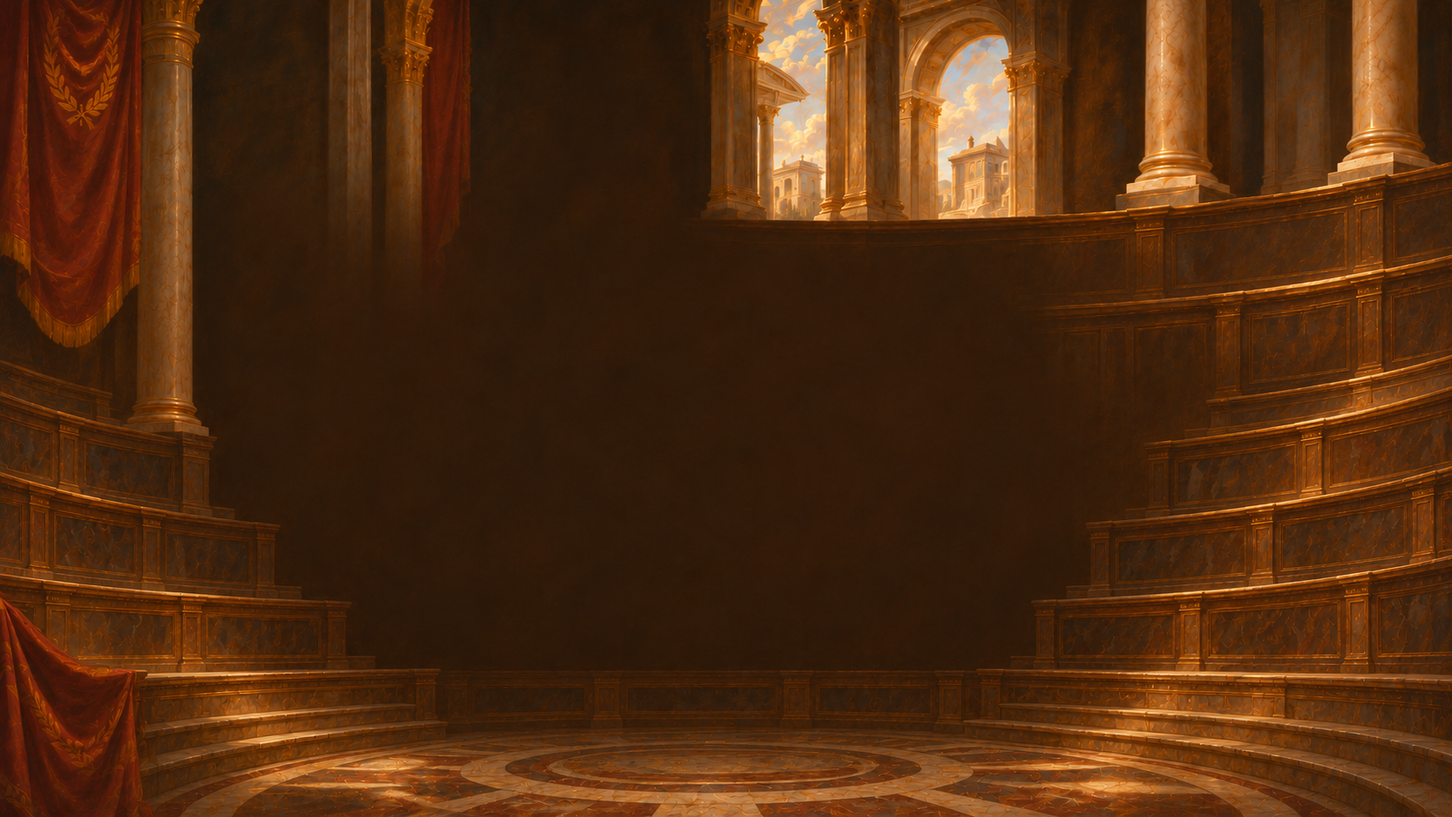
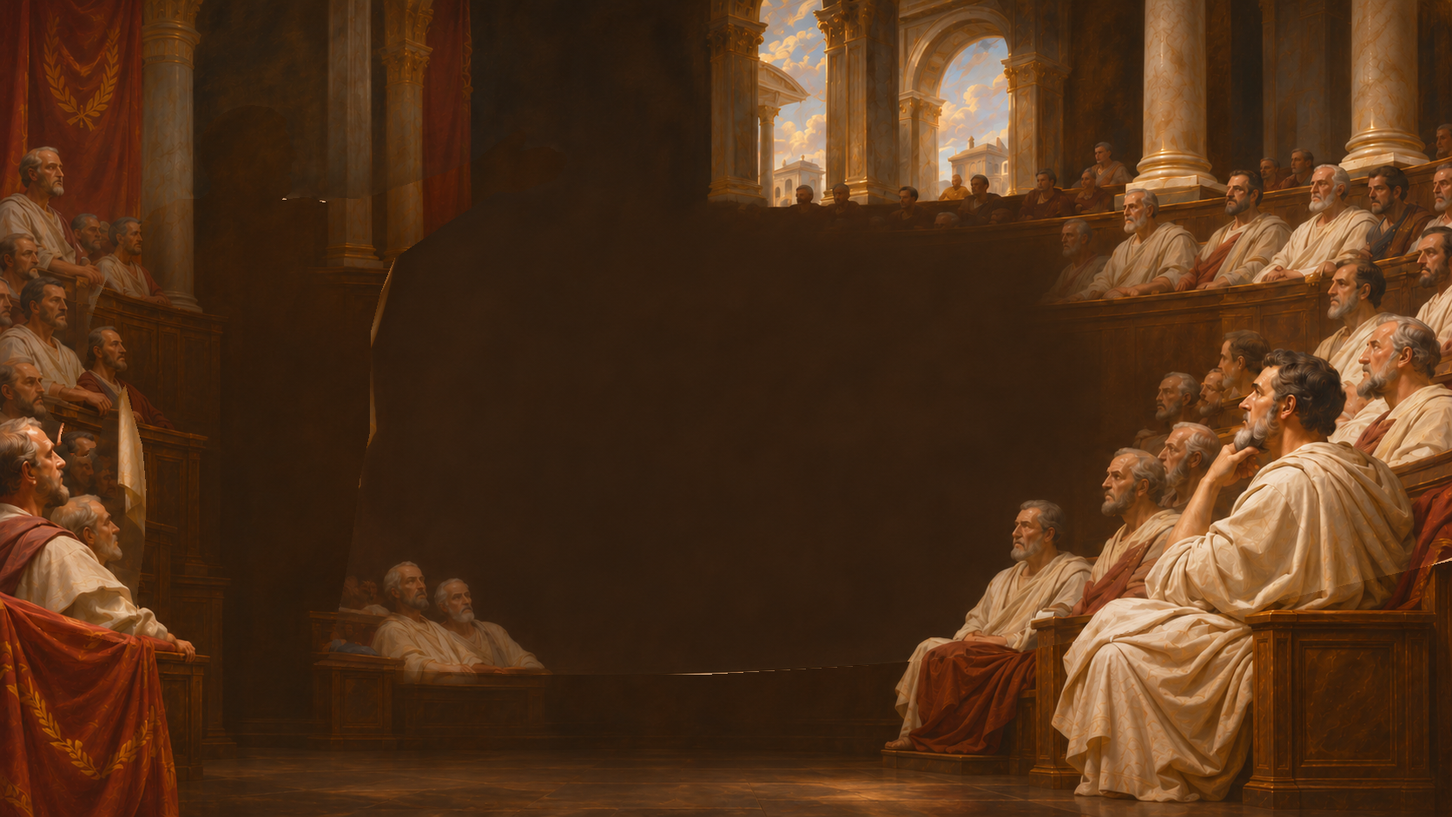
feat: 成就勋章、英雄氛围与好友席新视觉
- 七枚成就勋章与进度面板
- 首页深度视差与金色氛围层
- 好友头像/半身像与新的个人主页
- 保留 3/5/7 席、DeepSeek 开发者模式与 Worker + D1 部署

diff --git a/public/app.js b/public/app.js
@@ -1,3 +1,4 @@
+import {evaluateAchievements} from './achievements.js';
 import {packs,packList,allMembers,getPack,sizes,sizeLabels,votes} from './council.js';
 import {initHeroLive} from './hero-live.js';
 import {seatPositions,previewPositions} from './seat-layout.js';
@@ -9,7 +10,8 @@ const roman=['I','II','III','IV','V','VI','VII'];
 // Icon paths: Lucide, ISC license. Portrait SVGs are original flat geometric illustrations.
 const icons={'arrow-right':'<path d="M5 12h14M12 5l7 7-7 7"/>','arrow-down':'<path d="M12 5v14M5 12l7 7 7-7"/>',x:'<path d="m18 6-12 12M6 6l12 12"/>',users:'<path d="M16 21v-2a4 4 0 0 0-4-4H6a4 4 0 0 0-4 4v2M22 21v-2a4 4 0 0 0-3-3.87M16 3.13a4 4 0 0 1 0 7.75"/><circle cx="9" cy="7" r="4"/>',check:'<path d="m20 6-11 11-5-5"/>',lock:'<rect width="18" height="11" x="3" y="11" rx="2"/><path d="M7 11V7a5 5 0 0 1 10 0v4"/>'};
 function hydrateIcons(root=document){root.querySelectorAll('[data-icon]').forEach(el=>{el.classList.add('icon');el.setAttribute('aria-hidden','true');el.innerHTML=`<svg viewBox="0 0 24 24">${icons[el.dataset.icon]||icons['arrow-right']}</svg>`})}
-const friendSilhouette=`<svg class="friend-avatar" viewBox="0 0 180 240" aria-hidden="true"><path fill="#584530" d="M104 28C78 28 57 47 54 73c-1 10 1 18 6 24l-13 6c-4 3-2 8 3 9l10 2c-2 7 1 13 8 15l8 1-2 20c0 8 6 13 14 13h16c8 0 14-6 14-14v-19c14-6 22-18 22-32 0-7-2-14-5-20-5-30-19-50-31-50Z"/><path fill="#4d3a28" d="M104 28c20 0 36 16 39 40 2 16-2 32-11 44v-22c6-10 6-24 0-34-6-12-16-20-28-22Z"/><circle cx="128" cy="42" r="13" fill="#4d3a28"/><path fill="#6a543d" d="M14 240c4-42 28-68 60-72l16-2c32 0 56 26 60 74Z"/><path fill="#8a714f" opacity=".42" d="M70 170c10 16 16 36 18 70H56Z"/><path fill="#f4e6c8" opacity=".12" d="M78 58c6-10 18-16 29-14 5 1 10 4 13 8-9-4-19-4-28 0-6 3-11 5-14 6Z"/></svg>`;function portrait(c,index=0){const skin=['#d4b08b','#cda87b','#c69a73','#d9b48a','#c59a77','#d6af84','#d0ac85'][index%7];return `<svg viewBox="0 0 180 240" role="img" aria-label="${esc(c.name)}的低多边形肖像"><path fill="${c.color}" d="M8 240 20 177 62 151 76 140 106 140 120 155 163 181 177 240Z"/><path fill="#e8dfc8" d="m61 152 18-13 25 2 27 21-32 78H35Z"/><path fill="#cfc4aa" d="m77 154 22 14-25 72H35Z"/><path fill="#faf0d5" d="m106 147 23 16-30 77-8-44Z"/><path fill="#b9a88b" d="m45 174 29 12-22 54H25Z"/><path fill="#f0e5ca" d="m126 171 22 18-8 51h-31Z"/><path fill="#ac805e" d="m77 119-2 32 17 20 18-24-5-28Z"/><path fill="${skin}" d="m59 66 16-23 32 1 21 24-2 41-17 29-24 8-23-25-9-30Z"/><path fill="#e7c49a" d="m73 59 16-10 18 3 10 21-12 18-33-9Z"/><path fill="#b78b66" d="m114 66 14 3-2 41-17 29-15 5 8-43Z"/><path fill="#dab18b" d="m61 81 17 12-5 25-12-13Z"/><path fill="#e9c59d" d="m88 85 12-5-3 28-10 3Z"/><path fill="#af815c" d="m98 88 8 23-18 2 9-7Z"/><path fill="#826447" d="m68 84 15-3 2 4-15 3Zm35-1 13 2 3 5-17-3Z"/><path fill="#493d2c" d="m74 89 7-1-2 3h-5Zm31 0 8 1-2 3-7-1Z"/><path fill="${c.hair}" d="m54 81 1-21 13-22 23-7 27 13 15 25-7 14-10-20-10-11-30 5-12 16-1 18Z"/><path fill="#fff4d4" opacity=".25" d="m59 60 20-22 23 2-12 8-18 5-10 20Z"/>${c.style==='chinese'?`<circle cx="90" cy="18" r="13" fill="${c.hair}"/><path fill="#c7a56a" d="M87 5h6v15h-6Z"/>${c.hat==='guan'?`<path fill="#33261b" d="M60 49 69 33l21-6 21 6 9 16-8 5-10-8H78l-10 8Z"/><path fill="#c7a56a" d="M69 33h42v3H69Z"/>`:''}`:''}${c.beard?`<path fill="${c.hair}" d="m61 102 15 15 14-4 12 3 19-13-3 26-14 21-17 4-18-18Z"/><path fill="#fff3d4" opacity=".25" d="m65 113 19 10 3 31-16-19Zm32 10 17-11-10 36-10 3Z"/><path fill="#8d7154" d="m80 120 22 1-10 5Z"/>`:'<path fill="#9c6d51" d="m80 120 20-1-9 5Z"/><path fill="#e4bc92" d="m78 127 21 1-9 7Z"/>'}${c.hat==='laurel'?'<path fill="#b69b57" d="m60 58 10-13 3 10 11-17 1 12 14-12-4 13 16-4-10 10 18 3-17 4-23-5-15 8Z"/>':''}<path fill="#fff5df" opacity=".22" d="m27 188 11-9-8 61H17Zm102-12 11 8-22 56h-13Z"/></svg>`}
+// Use exactly the same SVG facets, proportions and palette as the occupied seats.
+const friendSilhouette=portrait({name:'匿名好友',color:'#85866a',hair:'#6c604a',beard:false,style:'guest'},0).replace('<svg ', '<svg class="friend-avatar" ');function portrait(c,index=0){const skin=['#d4b08b','#cda87b','#c69a73','#d9b48a','#c59a77','#d6af84','#d0ac85'][index%7];return `<svg viewBox="0 0 180 240" role="img" aria-label="${esc(c.name)}的低多边形肖像"><path fill="${c.color}" d="M8 240 20 177 62 151 76 140 106 140 120 155 163 181 177 240Z"/><path fill="#e8dfc8" d="m61 152 18-13 25 2 27 21-32 78H35Z"/><path fill="#cfc4aa" d="m77 154 22 14-25 72H35Z"/><path fill="#faf0d5" d="m106 147 23 16-30 77-8-44Z"/><path fill="#b9a88b" d="m45 174 29 12-22 54H25Z"/><path fill="#f0e5ca" d="m126 171 22 18-8 51h-31Z"/><path fill="#ac805e" d="m77 119-2 32 17 20 18-24-5-28Z"/><path fill="${skin}" d="m59 66 16-23 32 1 21 24-2 41-17 29-24 8-23-25-9-30Z"/><path fill="#e7c49a" d="m73 59 16-10 18 3 10 21-12 18-33-9Z"/><path fill="#b78b66" d="m114 66 14 3-2 41-17 29-15 5 8-43Z"/><path fill="#dab18b" d="m61 81 17 12-5 25-12-13Z"/><path fill="#e9c59d" d="m88 85 12-5-3 28-10 3Z"/><path fill="#af815c" d="m98 88 8 23-18 2 9-7Z"/><path fill="#826447" d="m68 84 15-3 2 4-15 3Zm35-1 13 2 3 5-17-3Z"/><path fill="#493d2c" d="m74 89 7-1-2 3h-5Zm31 0 8 1-2 3-7-1Z"/><path fill="${c.hair}" d="m54 81 1-21 13-22 23-7 27 13 15 25-7 14-10-20-10-11-30 5-12 16-1 18Z"/><path fill="#fff4d4" opacity=".25" d="m59 60 20-22 23 2-12 8-18 5-10 20Z"/>${c.style==='chinese'?`<circle cx="90" cy="18" r="13" fill="${c.hair}"/><path fill="#c7a56a" d="M87 5h6v15h-6Z"/>${c.hat==='guan'?`<path fill="#33261b" d="M60 49 69 33l21-6 21 6 9 16-8 5-10-8H78l-10 8Z"/><path fill="#c7a56a" d="M69 33h42v3H69Z"/>`:''}`:''}${c.beard?`<path fill="${c.hair}" d="m61 102 15 15 14-4 12 3 19-13-3 26-14 21-17 4-18-18Z"/><path fill="#fff3d4" opacity=".25" d="m65 113 19 10 3 31-16-19Zm32 10 17-11-10 36-10 3Z"/><path fill="#8d7154" d="m80 120 22 1-10 5Z"/>`:'<path fill="#9c6d51" d="m80 120 20-1-9 5Z"/><path fill="#e4bc92" d="m78 127 21 1-9 7Z"/>'}${c.hat==='laurel'?'<path fill="#b69b57" d="m60 58 10-13 3 10 11-17 1 12 14-12-4 13 16-4-10 10 18 3-17 4-23-5-15 8Z"/>':''}<path fill="#fff5df" opacity=".22" d="m27 188 11-9-8 61H17Zm102-12 11 8-22 56h-13Z"/></svg>`}
 let toastTimer;function toast(msg){$('#toast').textContent=msg;$('#toast').classList.add('show');clearTimeout(toastTimer);toastTimer=setTimeout(()=>$('#toast').classList.remove('show'),3800)}
 function showAiLoading(on){const el=$('#ai-loading');if(el)el.hidden=!on;document.body.classList.toggle('ai-busy',!!on)}
 function load(key,fallback){try{return JSON.parse(localStorage.getItem(key))??fallback}catch{return fallback}}
@@ -128,11 +130,20 @@ function devPanelMarkup(){
   const status=devActive()?'已配置 · 新议会生效':(dev.enabled?'请填写 API Key':'填写 Key 后开启');
   return `<section class="dev-panel" id="dev-panel"><header><div><p class="eyebrow">DEVELOPER MODE</p><h2>先贤引擎 · DeepSeek</h2></div><label class="dev-toggle"><input type="checkbox" id="dev-enabled" ${dev.enabled?'checked':''}><span class="dev-track"><span class="dev-thumb"></span></span><b>${dev.enabled?'已开启':'未开启'}</b></label></header><p class="dev-note">开启后，新议会的先贤质询与表态由 DeepSeek 实时生成；关闭或连接失败时自动回退本地规则。API Key 只保存在当前浏览器。</p><form id="dev-form" class="dev-form"><div id="dev-fields" ${dev.enabled?'':'hidden'}><label>DeepSeek API Key<input name="key" type="password" value="${esc(dev.key)}" placeholder="sk-..." autocomplete="off" spellcheck="false"></label><div class="dev-row"><label>模型<select name="model"><option value="deepseek-chat" ${dev.model==='deepseek-chat'?'selected':''}>deepseek-chat · 快速</option><option value="deepseek-reasoner" ${dev.model==='deepseek-reasoner'?'selected':''}>deepseek-reasoner · 深思</option></select></label><label>Base URL<input name="base" type="url" value="${esc(dev.base)}" placeholder="https://api.deepseek.com" autocomplete="off" spellcheck="false"></label></div><div class="dev-actions"><button class="button primary" type="submit">保存开发者设置</button><button class="button dev-test" type="button" data-action="dev-test">测试连接</button><span id="dev-status" class="dev-status ${devActive()?'ok':''}">${status}</span></div><p class="dev-security">Key 不会写入会场或账本；只在测试 / 开启质询 / 表决时发送给当前部署的服务，由它转发 DeepSeek。</p></div></form></section>`;
 }
+function achievementsMarkup(){
+  const medals=evaluateAchievements(ledger),unlocked=medals.filter(m=>m.unlocked).length;
+  return `<section class="achievement-gallery" id="achievement-gallery" aria-labelledby="achievement-title"><header class="achievement-heading"><div><p class="eyebrow">HONORES · THE SEVEN VIRTUES</p><h2 id="achievement-title">成就勋章</h2><p>每一次认真思考，都有迹可循。点击勋章，查看它的故事与达成条件。</p></div><div class="achievement-counter" aria-label="已点亮 ${unlocked} 枚，共 7 枚"><strong>${unlocked}</strong><span>/ 7</span> 已点亮</div></header><div class="achievement-grid">${medals.map(m=>`<button type="button" class="achievement-card ${m.unlocked?'is-unlocked':'is-locked'}" data-action="achievement" data-achievement="${m.id}" aria-label="${esc(m.name)}，${m.unlocked?'已点亮':'未解锁'}。${esc(m.condition)}当前进度 ${m.progress}/${m.target}"><img class="achievement-art" src="${m.icon}" width="160" height="160" loading="lazy" decoding="async" alt="${esc(m.symbol)}勋章"><span class="achievement-state">${m.unlocked?'✦ 已点亮':'尚未解锁'}</span><strong>${esc(m.name)}</strong><span class="achievement-condition">${esc(m.condition)}</span><progress class="achievement-meter" max="${m.target}" value="${m.progress}" aria-label="${esc(m.name)}达成进度"></progress><span class="achievement-progress">${m.progress} / ${m.target} ${m.unit}</span></button>`).join('')}</div><p class="achievement-footnote">依据当前浏览器中的议会与账单记录自动点亮；已有历史同样计入。冷静期结束或重新决定后，已达成的「交给时间」仍然保留。</p></section>`;
+}
+function showAchievement(id){
+  const m=evaluateAchievements(ledger).find(m=>m.id===id);if(!m)return;
+  $('#detail-content').innerHTML=`<article class="achievement-detail ${m.unlocked?'is-unlocked':'is-locked'}"><p class="eyebrow">${m.latin}</p><img class="achievement-detail-art" src="${m.icon}" alt="${esc(m.symbol)}勋章" width="230" height="230"><h2>${esc(m.name)}</h2><p class="achievement-detail-symbol">${esc(m.symbol)}</p><p class="achievement-detail-condition">${esc(m.condition)}</p><p class="achievement-detail-status">${m.unlocked?'✦ 勋章已点亮':'尚未解锁 · 每一步认真，都算数'}<br>当前进度：${m.progress} / ${m.target} ${m.unit}</p><progress class="achievement-meter" max="${m.target}" value="${m.progress}" aria-label="${esc(m.name)}达成进度"></progress></article>`;
+  $('#detail-dialog').showModal();
+}
 function renderProfile(){
   const kept=ledger.history.filter(h=>h.decision?.vote!=='买').reduce((n,h)=>n+(Number(h.price)||0),0);
   const recent=ledger.history.slice(0,4);
   const history=recent.length?recent.map(h=>`<div class="profile-history-row"><button type="button" data-action="record" data-id="${h.id}">${esc(h.product)}</button><span>${esc(h.decision?.vote||'—')}</span><time>${date(h.createdAt)}</time></div>`).join(''):'<p class="profile-empty">还没有议会记录。去门廊召集第一场议会，让先贤替你看清这件东西。</p>';
-  $('#profile-view').innerHTML=`<section class="profile-page"><div class="forum-topline"><a class="forum-back" href="#forum">← 返回门廊</a><span>THE CITIZEN · YOUR SEAT</span><span>${esc(date(profile.since))} 入席</span></div><div class="profile-title"><div><p class="eyebrow">PERSONAL HOME · CIVIS</p><h1>个人主页</h1></div><p>把每一次犹豫，<br>留给同一张议事桌。</p></div><div class="profile-layout"><aside class="profile-portrait"><span class="portal-art" style="width:210px;max-width:100%;margin:0 auto"><img src="/assets/hub-emblems.png" alt="" width="724" height="724"></span><h2>${esc(profile.name)}</h2><p>CITIZEN · EST. MMXXVI</p><blockquote>“${esc(profile.motto)}”</blockquote></aside><div><div class="profile-stats"><div class="profile-stat"><strong>${String(ledger.history.length).padStart(2,'0')}</strong><span>已开的议会</span></div><div class="profile-stat"><strong>¥ ${money(kept)}</strong><span>没有花出去</span></div><div class="profile-stat"><strong>¥ ${money(available())}</strong><span>当前可用闲钱</span></div></div><form id="profile-form" class="profile-form"><h2>你的席位</h2><label>称呼<input name="name" required maxlength="30" value="${esc(profile.name)}" placeholder="让先贤知道怎么称呼你"></label><label>一句话<textarea name="motto" rows="2" maxlength="120" placeholder="写下你希望自己记住的一句话">${esc(profile.motto)}</textarea></label><label class="profile-motion"><input type="checkbox" name="motion" ${prefs.motion?'checked':''}> 保留动效与音效</label><button class="button primary" type="submit">保存身份</button><span id="profile-save-note" class="profile-save-note">身份与偏好只保存在当前浏览器</span></form>${devPanelMarkup()}<div class="profile-history"><header><h2>最近的议会</h2><a href="#ledger">查看全部账单 →</a></header>${history}</div></div></div></section>`;
+  $('#profile-view').innerHTML=`<section class="profile-page"><div class="forum-topline"><a class="forum-back" href="#forum">← 返回门廊</a><span>THE CITIZEN · YOUR SEAT</span><span>${esc(date(profile.since))} 入席</span></div><div class="profile-title"><div><p class="eyebrow">PERSONAL HOME · CIVIS</p><h1>个人主页</h1></div><div class="profile-intro"><p>把每一次犹豫，<br>留给同一张议事桌。</p><button type="button" class="profile-achievement-link" data-action="show-achievements">成就勋章 →</button></div></div><div class="profile-layout"><aside class="profile-portrait"><span class="portal-art" style="width:210px;max-width:100%;margin:0 auto"><img src="/assets/hub-emblems.png" alt="" width="724" height="724"></span><h2>${esc(profile.name)}</h2><p>CITIZEN · EST. MMXXVI</p><blockquote>“${esc(profile.motto)}”</blockquote></aside><div><div class="profile-stats"><div class="profile-stat"><strong>${String(ledger.history.length).padStart(2,'0')}</strong><span>已开的议会</span></div><div class="profile-stat"><strong>¥ ${money(kept)}</strong><span>没有花出去</span></div><div class="profile-stat"><strong>¥ ${money(available())}</strong><span>当前可用闲钱</span></div></div><form id="profile-form" class="profile-form"><h2>你的席位</h2><label>称呼<input name="name" required maxlength="30" value="${esc(profile.name)}" placeholder="让先贤知道怎么称呼你"></label><label>一句话<textarea name="motto" rows="2" maxlength="120" placeholder="写下你希望自己记住的一句话">${esc(profile.motto)}</textarea></label><label class="profile-motion"><input type="checkbox" name="motion" ${prefs.motion?'checked':''}> 保留动效与音效</label><button class="button primary" type="submit">保存身份</button><span id="profile-save-note" class="profile-save-note">身份与偏好只保存在当前浏览器</span></form>${devPanelMarkup()}<div class="profile-history"><header><h2>最近的议会</h2><a href="#ledger">查看全部账单 →</a></header>${history}</div></div></div>${achievementsMarkup()}</section>`;
 }
 function showRecord(id){
 const h=ledger.history.find(h=>h.id===id);if(!h)return;const pack=packOf(h.packId),size=h.councilSize||h.seats?.length||7;const seatStrip=(h.seats||[]).map(sid=>{const c=pack.members.find(m=>m.id===sid);const ci=c?pack.members.indexOf(c):0;return `<span class="record-seat">${c?portrait(c,ci):friendSilhouette}<small>${c?esc(c.name):'好友'}</small></span>`}).join('');$('#detail-content').innerHTML=`<p class="eyebrow">THE ARCHIVE</p><div class="record-heading"><h2>${esc(h.product)}</h2><p>${date(h.createdAt)} · ¥ ${money(h.price)} · 你的决定：${h.decision.vote}</p></div><p class="record-pack">${esc(h.packName||pack.name)} · ${size} 席</p><div class="record-council pack-${pack.theme}">${seatStrip}</div><p class="user-reason">${esc(h.reason)}</p>${ballotMarkup(h)}<h3 style="margin-top:30px">完整质询记录</h3>${transcriptMarkup(h.answers)}`;$('#detail-dialog').showModal()}
@@ -149,6 +160,8 @@ if(event.target.closest('[data-slide-prev]')){event.preventDefault();goSlide(hom
 if(event.target.closest('[data-slide-next]')){event.preventDefault();goSlide(homePager.slide+1);return;}
 const sage=event.target.closest('[data-sage]');if(sage){event.preventDefault();showSage(sage.dataset.sage);return;}
 const el=event.target.closest('[data-action]');if(!el)return;const action=el.dataset.action;if(el.disabled)return;try{
+ if(action==='show-achievements'){$('#achievement-gallery')?.scrollIntoView({behavior:motionOff()?'instant':'smooth',block:'start'});return;}
+ if(action==='achievement'){showAchievement(el.dataset.achievement);return;}
  if(action==='toggle-motion'){prefs.motion=!prefs.motion;save('senate-prefs-v1',prefs);applyPrefs();if(!prefs.motion){finishTyping();clearBallotReveal();if(room?.state==='VOTE_FINISHED'&&location.hash==='#chamber')renderChamber();}toast(prefs.motion?'动画已开启':'动画已关闭');return;}
  if(action==='new'||action==='sample'){openProposal(action==='sample');return;}if(action==='enter-council'){openProposal();return;}if(action==='fill-sample'){fillSample();return;}if(action==='close'){el.closest('dialog').close();return;}if(action==='transcript'){showTranscript();return;}if(action==='record'){showRecord(el.dataset.id);return;}if(action==='ledger-tab'){tab=el.dataset.tab;renderLedger();return;}if(action==='friend-refresh'){await route();return;}
  if(action==='dev-test'){const form=$('#dev-form'),status=$('#dev-status');if(!form||!status)return;const key=form.querySelector('[name=key]').value.trim(),model=form.querySelector('[name=model]').value,base=form.querySelector('[name=base]').value.trim();if(!key){status.className='dev-status bad';status.textContent='请先填写 API Key';return}el.disabled=true;status.className='dev-status';status.textContent='正在连接 DeepSeek…';try{const result=await api('/api/dev/test',{method:'POST',body:{key,model,base}});status.className='dev-status ok';status.textContent=`连接成功${result.models?.length?' · '+result.models.slice(0,2).join(' / '):''}`}catch(error){status.className='dev-status bad';status.textContent=`连接失败：${error.message}`}finally{el.disabled=false}return;}
@@ -175,7 +188,7 @@ document.addEventListener('submit',async e=>{const form=e.target;if(!['proposal-
  if(form.id==='friend-form'){await api(`/api/rooms/${form.dataset.id}/friend`,{method:'POST',body:b,friendToken:form.dataset.token});await renderFriend(form.dataset.id,form.dataset.token);toast('你的观点已封存');}
  if(form.id==='friend-question-form'){await api(`/api/rooms/${form.dataset.id}/ask`,{method:'POST',body:{name:b.name,question:b.question},friendToken:form.dataset.token});await renderFriend(form.dataset.id,form.dataset.token);toast('你的质询已提交');}
  }catch(err){if(form.id==='proposal-form')$('#proposal-error').textContent=err.message;else toast(err.message)}finally{button.disabled=false;}});
-window.addEventListener('hashchange',route);window.addEventListener('pagehide',()=>clearInterval(poll));window.addEventListener('storage',e=>{if(e.key==='senate-ledger-v1'){ledger=load('senate-ledger-v1',ledger);if(location.hash==='#ledger')renderLedger()}});
+window.addEventListener('hashchange',route);window.addEventListener('pagehide',()=>clearInterval(poll));window.addEventListener('storage',e=>{if(e.key==='senate-ledger-v1'){ledger=load('senate-ledger-v1',ledger);if(location.hash==='#ledger')renderLedger();if(location.hash==='#profile')renderProfile()}});
 function wheelPager(event){if(!homeVisible()||dialogOpen()||event.ctrlKey)return;event.preventDefault();if(homePager.locked)return;const ax=Math.abs(event.deltaX),ay=Math.abs(event.deltaY);if(ax>ay*1.1&&homePager.page===1){if(ax>12)slideBy(event.deltaX>0?1:-1);return}homePager.wheelAcc+=event.deltaY;clearTimeout(homePager.wheelTimer);homePager.wheelTimer=setTimeout(()=>{homePager.wheelAcc=0},170);if(Math.abs(homePager.wheelAcc)>=24){const dir=homePager.wheelAcc>0?1:-1;homePager.wheelAcc=0;goPage(homePager.page+dir)}}
 document.addEventListener('wheel',wheelPager,{passive:false});
 let pagerPointer=null;

diff --git a/public/achievements.css b/public/achievements.css
@@ -1,0 +1,45 @@
+/* Anonymous guest portrait: keep the illustration aligned with the bust base. */
+.seat .bust .friend-avatar{display:block;width:100%;height:100%;object-fit:contain;object-position:center bottom;filter:drop-shadow(0 3px 3px #442c1822)}
+.record-seat .friend-avatar{display:block;width:40px;height:52px;border:1px solid #c3ae86;border-radius:50% 50% 0 0/34% 34% 0 0;background:#e8dcc4;object-fit:contain;object-position:center bottom}
+.pool-chip.friend .friend-avatar{display:block;width:44px;height:56px;max-width:none;object-fit:contain;object-position:center bottom}
+.friend-portrait-preview{display:block;width:100%;height:100%;object-fit:contain;object-position:center bottom}
+/* Medals live on their own shelf in the personal home. */
+.profile-achievement-link{display:inline-flex;align-items:center;gap:9px;padding:9px 0;color:#d4b377;border-bottom:1px solid #a88a5455;font:12px SimSun,serif;letter-spacing:2px}
+.profile-achievement-link:hover{color:#f1d6a4;border-color:#d4b377}
+.profile-title .profile-intro{display:flex;align-items:center;gap:28px}
+.achievement-gallery{margin-top:48px;padding:35px 0 10px;border-top:1px solid #b4935655;scroll-margin-top:30px}
+.achievement-heading{display:flex;align-items:flex-end;justify-content:space-between;gap:22px;margin-bottom:18px}
+.achievement-heading .eyebrow{font-size:9px;letter-spacing:4px;color:#a88a55}
+.achievement-heading h2{font:29px/1.5 SimSun,serif;letter-spacing:5px;margin-top:9px;color:#ecdfc0}
+.achievement-heading p{font:11px/1.9 SimSun,serif;color:#a99472;letter-spacing:1px;margin-top:9px}
+.achievement-counter{flex:none;text-align:right;font:11px SimSun,serif;letter-spacing:2px;color:#aa926b;padding-bottom:6px}
+.achievement-counter strong{font:34px Georgia,serif;color:#d7b775;letter-spacing:0}
+.achievement-counter span{font:20px Georgia,serif;color:#8d7754;margin:0 6px}
+.achievement-grid{display:grid;grid-template-columns:repeat(4,minmax(0,1fr));gap:16px 22px}
+.achievement-card{position:relative;display:flex;flex-direction:column;align-items:center;text-align:center;min-width:0;padding:19px 12px 20px;border-bottom:1px solid #b493562e;background:radial-gradient(ellipse at 50% 28%,#c4933320,transparent 58%);transition:background .3s,border-color .3s;cursor:pointer}
+.achievement-card:hover,.achievement-card:focus-visible{background:radial-gradient(ellipse at 50% 28%,#d2a54b30,transparent 65%);border-color:#c1a36a77}
+.achievement-art{width:150px;max-width:100%;aspect-ratio:1;object-fit:contain;display:block;filter:drop-shadow(0 6px 13px #0005);transition:filter .4s,transform .4s;pointer-events:none}
+.achievement-card:hover .achievement-art,.achievement-card:focus-visible .achievement-art{transform:translateY(-5px) rotate(-2deg)}
+.achievement-card.is-locked .achievement-art{filter:grayscale(.94) saturate(.2) brightness(.75) drop-shadow(0 6px 13px #0004);opacity:.65}
+.achievement-card.is-locked:hover .achievement-art,.achievement-card.is-locked:focus-visible .achievement-art{filter:grayscale(.65) saturate(.4) brightness(.9);opacity:.85}
+.achievement-state{display:block;font:9px/1.6 SimSun,serif;letter-spacing:2px;color:#bda166;margin-top:9px;min-height:15px}
+.is-locked .achievement-state{color:#94866c}
+.achievement-card strong{font:18px/1.6 SimSun,serif;letter-spacing:2px;color:#e9d9b5;margin-top:5px}
+.achievement-condition{font:10px/1.9 SimSun,serif;color:#ac9979;display:block;min-height:57px;margin-top:9px;max-width:210px;overflow-wrap:anywhere;letter-spacing:.4px}
+.achievement-meter{display:block;width:78%;height:3px;appearance:none;border:0;background:#77613a30;color:#b99c60;border-radius:0;margin-top:14px;overflow:hidden}
+.achievement-meter::-webkit-progress-bar{background:#77613a30}
+.achievement-meter::-webkit-progress-value{background:linear-gradient(90deg,#927340,#d3b474)}
+.achievement-meter::-moz-progress-bar{background:#c0a263}
+.achievement-progress{display:block;font:9px/1.6 Georgia,SimSun,serif;color:#968361;margin-top:8px;letter-spacing:1px}
+.achievement-footnote{font:10px/1.9 SimSun,serif;color:#8e7d60;margin-top:24px;letter-spacing:1px}
+.achievement-detail{text-align:center;padding:4px 5px 15px}
+.achievement-detail-art{width:230px;max-width:75%;aspect-ratio:1;object-fit:contain;margin:15px auto;filter:drop-shadow(0 8px 15px #79541a33)}
+.achievement-detail.is-locked .achievement-detail-art{filter:grayscale(.9) brightness(.85);opacity:.75}
+.achievement-detail .eyebrow{font-size:10px;letter-spacing:3px}
+.achievement-detail h2{font-size:30px;letter-spacing:4px}
+.achievement-detail-symbol{font:11px/1.8 SimSun,serif;color:#927750;margin:8px 0 20px;letter-spacing:2px}
+.achievement-detail-condition{font:14px/2 SimSun,serif;color:#6d563a;max-width:460px;margin:auto}
+.achievement-detail-status{font:12px/1.9 SimSun,serif;color:#8c6d3e;border-top:1px solid #bca16b55;padding-top:18px;margin-top:22px;letter-spacing:1px}
+.achievement-detail .achievement-meter{margin:16px auto 0;max-width:300px;height:4px}
+@media(max-width:1000px){.achievement-grid{gap:14px}.achievement-art{width:130px}.achievement-condition{min-height:76px}.profile-title .profile-intro{gap:16px}}
+@media(max-width:700px){.achievement-gallery{margin-top:32px;padding-top:26px}.achievement-heading{align-items:start;gap:12px}.achievement-heading h2{font-size:25px;letter-spacing:3px}.achievement-heading p{font-size:10px;letter-spacing:.4px;max-width:235px}.achievement-counter{font-size:9px;white-space:nowrap;padding-top:22px;letter-spacing:0}.achievement-counter strong{font-size:28px}.achievement-counter span{font-size:16px;margin:0 3px}.achievement-grid{grid-template-columns:repeat(2,minmax(0,1fr));gap:10px 12px}.achievement-card{padding:15px 7px 18px}.achievement-art{width:125px}.achievement-card strong{font-size:16px;letter-spacing:1px}.achievement-condition{font-size:10px;min-height:76px;margin-top:7px}.achievement-state{font-size:8px;letter-spacing:1px}.achievement-progress{font-size:8px;letter-spacing:.2px}.profile-title .profile-intro>p{display:none}.profile-achievement-link{font-size:11px;letter-spacing:1px}.achievement-detail-art{width:190px}.achievement-detail h2{font-size:26px}.achievement-detail-condition{font-size:13px}.achievement-footnote{font-size:9px}}

diff --git a/public/hero-live.js b/public/hero-live.js
@@ -1,20 +1,55 @@
 const clamp = (n, min, max) => Math.min(max, Math.max(min, n));
 
-// The plates share a source canvas and crop; only their depth transforms differ.
+// Fixed, deterministic motes animate on the compositor, without an idle RAF.
+function addAtmosphere(hero) {
+  if (hero.querySelector('.hero-atmosphere')) return;
+  const atmosphere = document.createElement('div');
+  atmosphere.className = 'hero-atmosphere';
+  atmosphere.setAttribute('aria-hidden', 'true');
+  const glow = document.createElement('div');
+  glow.className = 'hero-light-breath';
+  atmosphere.appendChild(glow);
+  for (let index = 0; index < 3; index++) {
+    const wave = document.createElement('span');
+    wave.className = 'hero-breath-wave';
+    wave.style.setProperty('--wave-delay', `${-index * 5}s`);
+    atmosphere.appendChild(wave);
+  }
+  for (let index = 0; index < 26; index++) {
+    const mote = document.createElement('span');
+    const unit = salt => ((index * 137 + salt * 79) % 997) / 997;
+    mote.className = 'hero-light-mote';
+    const properties = {
+      '--px': `${5 + unit(1) * 90}%`, '--py': `${17 + unit(9) * 77}%`,
+      '--mote-size': `${index % 6 === 0 ? 3 : 1.5 + unit(4)}px`,
+      '--drift': `${-22 + unit(2) * 44}px`, '--lift': `${55 + unit(3) * 80}px`,
+      '--life': `${13 + unit(5) * 13}s`, '--delay': `${-unit(7) * 26}s`,
+      '--glimmer': `${.22 + unit(6) * .38}`
+    };
+    Object.entries(properties).forEach(([name,value]) => mote.style.setProperty(name,value));
+    atmosphere.appendChild(mote);
+  }
+  hero.appendChild(atmosphere);
+}
+
+// The background keeps every seated person intact. Only the orator/desk move.
+// All plates use the same source canvas, crop and scale, including at rest.
 export function initHeroLive() {
   const hero = document.querySelector('.hero');
-  if (!hero) return;
+  if (!hero || hero.dataset.heroLive) return;
+  hero.dataset.heroLive = 'ready';
+  addAtmosphere(hero);
   const layers = [...hero.querySelectorAll('.hero-layer')];
   const home = document.getElementById('home-view');
   const pager = document.getElementById('home-pager');
   const reduced = matchMedia('(prefers-reduced-motion: reduce)');
   const finePointer = matchMedia('(hover: hover) and (pointer: fine)');
   let x = 0, y = 0, targetX = 0, targetY = 0, frame = 0, last = 0;
-  const active = () => !document.hidden && !home.hidden &&
-    pager.dataset.page === '0' && !reduced.matches && finePointer.matches &&
+  const visibleMotion = () => !document.hidden && !home.hidden &&
+    pager.dataset.page === '0' && !reduced.matches &&
     !document.documentElement.classList.contains('no-motion') &&
     !document.querySelector('dialog[open]');
-
+  const active = () => visibleMotion() && finePointer.matches;
   function paint() {
     hero.style.setProperty('--mx', x.toFixed(4));
     hero.style.setProperty('--my', y.toFixed(4));
@@ -24,6 +59,10 @@ export function initHeroLive() {
     frame = 0; last = 0;
     x = y = targetX = targetY = 0;
     paint();
+  }
+  function syncActivity() {
+    hero.classList.toggle('ambient-running', visibleMotion());
+    if (!active()) reset();
   }
   function tick(now) {
     frame = 0;
@@ -47,16 +86,17 @@ export function initHeroLive() {
     wake();
   }, {passive: true});
   hero.addEventListener('pointerleave', () => { targetX = targetY = 0; wake(); });
-  document.addEventListener('visibilitychange', reset);
-  reduced.addEventListener('change', reset);
-  finePointer.addEventListener('change', reset);
-  const observer = new MutationObserver(() => { if (!active()) reset(); });
+  document.addEventListener('visibilitychange', syncActivity);
+  reduced.addEventListener('change', syncActivity);
+  finePointer.addEventListener('change', syncActivity);
+  const observer = new MutationObserver(syncActivity);
   observer.observe(document.documentElement, {attributes: true, attributeFilter: ['class']});
   observer.observe(home, {attributes: true, attributeFilter: ['hidden']});
   observer.observe(pager, {attributes: true, attributeFilter: ['data-page']});
   document.querySelectorAll('dialog').forEach(dialog =>
     observer.observe(dialog, {attributes: true, attributeFilter: ['open']}));
-  // Reveal the assembled scene only after all three plates load successfully.
+  syncActivity();
+  // Keep the complete original painting visible if any plate cannot load.
   Promise.all(layers.map(img => img.decode())).then(() => {
     if (layers.length === 3) hero.classList.add('layers-ready');
   }).catch(() => hero.classList.remove('layers-ready'));

diff --git a/public/achievements.js b/public/achievements.js
@@ -1,0 +1,43 @@
+// Achievements are derived from saved records, including existing history.
+// Resolving a cooling-off decision must not erase an earned milestone.
+export const achievementDefinitions = [
+  {id:'first-council',name:'初入元老院',latin:'PRIMA ASSEMBLEA',symbol:'神殿',condition:'完成第一场议会，并作出最终决定。',target:1,unit:'场议会',metric:'councils'},
+  {id:'inquiry',name:'问道者',latin:'ARS QVAERENDI',symbol:'羽笔与卷宗',condition:'在已完成的议会中，累计认真回答 7 个质询。',target:7,unit:'个回答',metric:'answers'},
+  {id:'fellowship',name:'好友同席',latin:'VOX AMICORVM',symbol:'握手与银盾',condition:'与至少一位好友共同完成一场议会。',target:1,unit:'场好友议会',metric:'friendCouncils'},
+  {id:'patience',name:'交给时间',latin:'TEMPVS DOCET',symbol:'沙漏',condition:'在一场议会中选择「暂缓」，开启一次冷静期。',target:1,unit:'次冷静决定',metric:'pauses'},
+  {id:'restraint',name:'有所不为',latin:'ARS TEMPERANTIAE',symbol:'钱袋与橄榄枝',condition:'在听取议会意见后，至少一次决定「不买」。',target:1,unit:'次不买决定',metric:'declines'},
+  {id:'bookkeeper',name:'账簿执笔人',latin:'CVRA RATIONVM',symbol:'账簿与金笔',condition:'累计留下 3 笔收支记录，预算调整与议会购买也计入。',target:3,unit:'笔收支',metric:'entries'},
+  {id:'sevenfold',name:'七度深思',latin:'SEPTEM CONSILIA',symbol:'桂冠与明灯',condition:'累计完成 7 场议会，每场都作出自己的决定。',target:7,unit:'场议会',metric:'councils'}
+];
+
+const votes = new Set(['买','暂缓','不买']);
+function unique(items) {
+  const ids = new Set();
+  return items.filter(item => {
+    if (!item || typeof item !== 'object') return false;
+    if (!item.id) return true;
+    if (ids.has(item.id)) return false;
+    ids.add(item.id);return true;
+  });
+}
+
+export function evaluateAchievements(ledger = {}) {
+  const history = unique(Array.isArray(ledger?.history) ? ledger.history : [])
+    .filter(record => votes.has(record.decision?.vote));
+  const entries = unique(Array.isArray(ledger?.entries) ? ledger.entries : [])
+    .filter(entry => ['income','expense'].includes(entry.kind) && Number(entry.amount) > 0);
+  const metrics = {
+    councils:history.length,
+    answers:history.reduce((sum,record) => sum + (Array.isArray(record.answers)
+      ? record.answers.filter(answer => typeof answer?.answer === 'string' && answer.answer.trim()).length : 0),0),
+    friendCouncils:history.filter(record => record.seats?.includes('friend') || record.ballots?.some(ballot => ballot.source === 'friend')).length,
+    pauses:history.filter(record => record.decision.vote === '暂缓' || record.originalDecision?.vote === '暂缓').length,
+    declines:history.filter(record => record.decision.vote === '不买').length,
+    entries:entries.length
+  };
+  return achievementDefinitions.map(definition => {
+    const total = metrics[definition.metric];
+    return {...definition,icon:`/assets/achievements/${definition.id}.png`,total,
+      progress:Math.min(total,definition.target),unlocked:total >= definition.target};
+  });
+}

diff --git a/public/index.html b/public/index.html
@@ -1,5 +1,5 @@
 <!doctype html>
-<html lang="zh-CN"><head><meta charset="UTF-8"><meta name="viewport" content="width=device-width, initial-scale=1"><meta name="theme-color" content="#292016"><meta name="description" content="The Senate 元老院消费决策议会。七位先贤的轮番质询，替你分辨想要与需要。"><title>The Senate · 元老院消费决策议会</title><link rel="icon" href="/assets/temple.svg" type="image/svg+xml"><script>document.documentElement.classList.add('js-pager')</script><link rel="stylesheet" href="/assets/tailwind.css"><link rel="stylesheet" href="/style.css"><link rel="stylesheet" href="/depth-scroll.css"><link rel="stylesheet" href="/forum.css"><script type="module" src="/app.js"></script></head>
+<html lang="zh-CN"><head><meta charset="UTF-8"><meta name="viewport" content="width=device-width, initial-scale=1"><meta name="theme-color" content="#292016"><meta name="description" content="The Senate 元老院消费决策议会。七位先贤的轮番质询，替你分辨想要与需要。"><title>The Senate · 元老院消费决策议会</title><link rel="icon" href="/assets/temple.svg" type="image/svg+xml"><script>document.documentElement.classList.add('js-pager')</script><link rel="stylesheet" href="/assets/tailwind.css"><link rel="stylesheet" href="/style.css"><link rel="stylesheet" href="/depth-scroll.css"><link rel="stylesheet" href="/forum.css"><link rel="stylesheet" href="/achievements.css"><link rel="stylesheet" href="/hero-atmosphere.css"><script type="module" src="/app.js"></script></head>
 <body>
 <a class="skip-link" href="#main">跳至主要内容</a>
 <header id="header" class="site-header flex items-center justify-between"><a class="brand flex items-center" href="#home"><img src="/assets/temple.svg" alt="" width="31" height="31"><span>The Senate</span></a><nav aria-label="主导航" class="flex items-center"><a href="#home" data-nav="home">首页</a><a href="#forum" data-nav="forum">元老院</a><a href="#ledger" data-nav="ledger">账单</a><a href="#profile" data-nav="profile">个人主页</a></nav><span class="edition">EST. MMXXVI</span><button type="button" class="pref-toggle" id="motion-toggle" data-action="toggle-motion" aria-pressed="false" aria-label="关闭动画与音效" title="关闭动画与音效"><span class="pref-dot"></span><span class="pref-text">动效 开</span><span class="pref-short" aria-hidden="true">动</span></button></header>

diff --git a/public/hero-atmosphere.css b/public/hero-atmosphere.css
@@ -1,0 +1,13 @@
+/* Small gold motes and quiet ripples: only transform and opacity animate. */
+.hero-atmosphere{position:absolute;inset:0;z-index:1;pointer-events:none;overflow:hidden;mix-blend-mode:screen;contain:layout paint}
+.hero-atmosphere>*{pointer-events:none;animation-play-state:paused!important}
+.hero.ambient-running .hero-atmosphere>*{animation-play-state:running!important}
+.hero-light-breath{position:absolute;inset:0;background:radial-gradient(ellipse at 58% 22%,#e8bd7424,transparent 52%),radial-gradient(ellipse at 50% 80%,#c3924220,transparent 54%);animation:heroLightBreathe 12s ease-in-out infinite;opacity:.08}
+.hero-light-mote{position:absolute;left:var(--px);top:var(--py);width:var(--mote-size);height:var(--mote-size);background:#f1d799;border-radius:50%;box-shadow:0 0 5px 1px #e1b15b3d;opacity:0;animation:heroMoteDrift var(--life) linear var(--delay) infinite}
+.hero-breath-wave{position:absolute;left:50%;top:72%;width:clamp(550px,76vw,1450px);height:clamp(160px,24vw,360px);border:1px solid #dcb879;border-radius:50%;opacity:0;mask-image:linear-gradient(90deg,transparent,#000 24%,#000 76%,transparent);animation:heroWaveBreathe 15s ease-in-out var(--wave-delay) infinite}
+@keyframes heroMoteDrift{0%{transform:translate3d(0,12px,0);opacity:0}18%{opacity:var(--glimmer)}60%{opacity:var(--glimmer)}100%{transform:translate3d(var(--drift),calc(var(--lift)*-1),0);opacity:0}}
+@keyframes heroLightBreathe{0%,100%{opacity:.08}50%{opacity:.24}}
+@keyframes heroWaveBreathe{0%{transform:translate(-50%,-50%) scale(.78,.9);opacity:0}25%{opacity:.09}55%{opacity:.065}100%{transform:translate(-50%,-50%) scale(1.22,1.13);opacity:0}}
+@media(max-width:767px){.hero-light-mote:nth-of-type(n+18){display:none}.hero-breath-wave{top:75%;width:680px;height:220px}.hero-light-mote{box-shadow:0 0 4px #e1b15b33}}
+@media(prefers-reduced-motion:reduce){.hero-atmosphere{display:none!important}}
+html.no-motion .hero-atmosphere{display:none!important}

diff --git a/public/depth-scroll.css b/public/depth-scroll.css
@@ -1,12 +1,12 @@
-/* Shared-canvas plates: architecture / people / foreground desk / live type. */
+/* Shared canvas: intact seated senators / one orator / foreground desk / type. */
 .hero{--mx:0;--my:0;isolation:isolate}
 .hero-art{inset:-2.5%;transform:none;will-change:auto;pointer-events:none}
 .hero-layer{position:absolute;width:100%;height:100%;inset:0;object-fit:cover;object-position:center;opacity:0;pointer-events:none;transition:opacity .65s ease}
 .layers-ready .hero-layer{opacity:1}
 .layers-ready .hero-art{background:none}
-.hero-layer-background{transform:translate(calc(var(--mx)*-3px),calc(var(--my)*-2px)) scale(1.012)}
-.hero-layer-people{transform:translate(calc(var(--mx)*-10px),calc(var(--my)*-5px)) scale(1.006);filter:drop-shadow(3px 7px 6px #120b0638)}
-.hero-layer-table{transform:translate(calc(var(--mx)*-19px),calc(var(--my)*-9px)) scale(1.008);filter:drop-shadow(0 -3px 8px #170e0545)}
+.hero-layer-background{transform:translate(calc(var(--mx)*-2px),calc(var(--my)*-1px))}
+.hero-layer-people{transform:translate(calc(var(--mx)*-8px),calc(var(--my)*-4px))}
+.hero-layer-table{transform:translate(calc(var(--mx)*-10px),calc(var(--my)*-4px))}
 .hero-screen .hero-content{translate:calc(var(--mx)*6px) calc(var(--my)*3px);text-shadow:0 5px 22px #160e0877}
 .hero-shade{pointer-events:none}
 /* A parchment scroll with illuminated edges, rolled ends and a wax seal. */

diff --git a/README.md b/README.md
@@ -135,3 +135,35 @@ data-senate-url="https://senate.aitchwcx.me/"
 - 好友席的问题必须由好友自己提交后才会出现；问题文字逐字浮现，全部质询完成后才可进入表决。拖动好友席时补上了 `dropEffect`，华夏包 / 古罗马包都能正常落座。
 
 验证：`node test/engine.test.mjs` 与 `node test/regressions.test.mjs` 共 20 项通过；桌面 1440×900 与移动 390×844 浏览器预览通过。
+
+
+## 好友肖像与七枚成就勋章（2026-11-07）
+
+好友席改为透明背景的匿名青铜半身像，统一用于会场、好友席选择和历史记录。
+
+个人主页新增「成就勋章」入口与勋章陈列区：七张独立 PNG 图标、解锁状态、进度条及可点击的详情。勋章依据当前浏览器的已有账单与已完成议会自动计算，无须重新开始。
+
+| 勋章 | 图案 | 达成条件 |
+| --- | --- | --- |
+| 初入元老院 | 六角神殿 | 完成第一场议会并作出最终决定 |
+| 问道者 | 羽笔与卷宗 | 在已完成议会中累计回答 7 个非空质询 |
+| 好友同席 | 握手与银盾 | 完成至少一场包含好友席的议会 |
+| 交给时间 | 沙漏 | 至少一次选择暂缓；冷静期结束或后续确认购买/放弃后仍保留 |
+| 有所不为 | 钱袋与橄榄枝 | 至少一次最终决定不买 |
+| 账簿执笔人 | 账簿与金笔 | 累计 3 笔有效收支，含预算调整与议会购买 |
+| 七度深思 | 桂冠与明灯 | 完成 7 场议会并逐场作出决定 |
+
+图标位于 `public/assets/achievements/`，好友肖像位于 `public/assets/friend-bust.png`；规则位于 `public/achievements.js`。重复的同一议会记录不重复计数；未作出决定的进行中议会不计入。
+
+本次验证：7 组成就测试通过；全部现有测试中 25 项通过，2 项 HTTP 测试受本机回环连接 EACCES 限制。检查了七枚勋章的锁定/点亮渲染、全部详情内容、资源路径和 8 张透明图片完整性。浏览器预览连接超时，实际页面布局尚未完成浏览器验收。
+
+
+## 首页分层修复与轻量氛围（2026-11-07）
+
+好友肖像现在直接使用其他先贤相同的 SVG 绘制函数、180×240 画布、几何色块和人物比例；不再使用写实青铜头像。独立导出的同款素材为 `public/assets/friend-avatar.svg`。
+
+首页按「仅分离左侧演说者和前景长桌」重做。其余坐席和背景人物保留在原图底板中；三张图片使用完全相同的画布、裁切和静止缩放，避免拼合错位。补全底图只用于演说者和长桌的遮挡区域。图像检查：静止三层合成与原画的差异像素为 0；右侧与后排人物区域差异像素为 0；人物动层右侧无零散人像。另检查了极限位移合成。
+
+首页加入 26 个缓慢上浮的金色光粒子、三道很淡的椭圆呼吸波纹和轻微光晕呼吸。仅用 CSS 的位移和透明度动画，没有空转的逐帧绘制。非首页、后台、弹出对话框时暂停；关闭动效或系统减少动态效果时隐藏。移动端减小粒子数量。
+
+本次验证：31 项测试中 29 项通过，2 项 HTTP 测试仍因本机回环连接 EACCES 而无法执行。新增测试覆盖首页进出、后台暂停、弹窗复位、关闭动效、触屏和图层加载失败回退。浏览器实时预览仍未验收；静态合成已人工查看。
